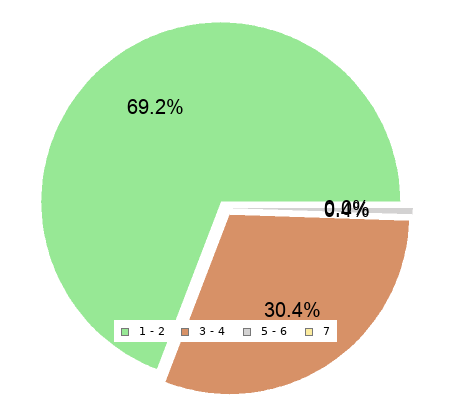
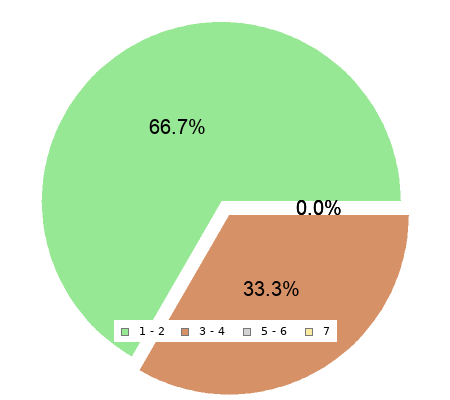
arreglo chart

diff --git a/src/templates/ReportPdfChart.php b/src/templates/ReportPdfChart.php
@@ -1,7 +1,9 @@
 <?php 
+	use Fpdf\Fpdf;
 	
 	$file_name = (isset($file_name)) ? $file_name : NULL;
 	$price = (isset($price)) ? $price : 0;
+	$pricemetro = (isset($pricemetro)) ? $pricemetro : 0;
 	$amueblado = (isset($amueblado)) ? $amueblado : 0;
 	$a_c = (isset($a_c)) ? $a_c : 0;
 	$elevator = (isset($elevator)) ? $elevator : 0;
@@ -12,12 +14,15 @@
 
 	//calcula el promedio del precio de la zona
 	if ($rows <= 0)
+	{
 	    $prom = 0;
+		$promMetro = 0;
+	}
 	else
+	{
 	    $prom = $price / $rows;
-
-	use Fpdf\Fpdf;
-	
+		$promMetro = $pricemetro / $rows;
+	}	
 
 	$pdf = new FPDF('P','mm','Legal');
 
@@ -45,7 +50,7 @@
 		$pdf->Text(177,346,'+34 910 57 30 27');		
 	}
 
-	function apartamento ($pdf, $apart, $des)
+	function apartamento ($pdf, $apart, $prom)
 	{
 		$beneficios = array(
 			'aireAcondicionado' => 'A/C',
@@ -70,9 +75,14 @@
 		$pdf->Text(76,$y+30,utf8_decode($apart['ciudad']));
 
 		
-		$pdf->Text(13,116.5,'Precio.');
-		$pdf -> Image(__DIR__ .'/../image/price2.png', 38, 109, 35, 12);
-		$pdf->Text(43,116.5,$apart['precio']." ". EURO);
+		$pdf->Text(16,116.5,'Precio.');
+		$pdf -> Image(__DIR__ .'/../image/price2.png', 38, 109, 40, 12);
+		$pdf->Text(41,116.5,round($prom['prom'],2)." ". EURO." /mes");
+
+		$pdf->Text(117,116.5,utf8_decode('Precio m².'));
+		$pdf -> Image(__DIR__ .'/../image/price2.png', 143, 109, 40, 12);
+		$pdf->Text(146,116.5,round($prom['promM'],2)." ". EURO." /mes");
+
 
 		// Detalles
 		$pdf -> Line(10,130,10,154);
@@ -119,29 +129,6 @@
 
 
 		$pdf -> SetFont('Arial', 'B', 14);
-		switch ($des) {
-			case '7'://primer apartamento
-					$pdf->Text(60,34,utf8_decode("Apartamento más cercano a la ubicación"));
-				break;
-			case '8': // economicio
-					$desc = substr($apart['descripcion'], 0, 1200);
-					$pdf->Text(74,34,utf8_decode("Apartamento más económico"));
-					$pdf->SetFontSize(16);
-					$pdf->Text(11,200,utf8_decode("Descripción: "));
-					$pdf -> SetFont('Arial', '', 11);
-					$pdf -> SetY(205);
-					$pdf->MultiCell(0,10,utf8_decode($desc)."...", 0, 'J',false);
-				break;
-			case '9': //costoso
-					$desc = substr($apart['descripcion'], 0, 1200);
-					$pdf->Text(74,34,utf8_decode("Apartamento más costoso"));			
-					$pdf->SetFontSize(16);
-					$pdf->Text(11,200,utf8_decode("Descripción: "));
-					$pdf -> SetFont('Arial', '', 11);
-					$pdf -> SetY(205);
-					$pdf->MultiCell(0,10,utf8_decode($desc)."...", 0, 'J',false);
-				break;
-		}
 	}
 
 	//Portada
@@ -182,7 +169,7 @@
 
 	
 
-	apartamento($pdf, $apart, 7);
+	apartamento($pdf, $apart,[ 'prom' => $prom, 'promM' => $promMetro]);
 
 	//Reporte Global-1
 	$pdf->SetFontSize(16);
@@ -212,8 +199,8 @@
 
 	//apartamentos
 	$pdf -> Line(53,210,53,250);	
-	$pdf -> Image(__DIR__ .'/../image/rounded_blue.png', 60, 218, 30, 35);
-	$pdf->Text(71,238,$rows);
+	$pdf -> Image(__DIR__ .'/../image/rounded_blue.png', 62, 218, 30, 35);
+	$pdf->Text(73,238,$rows);
 
 	//edad media
 	$pdf -> Line(100,210,100,250);
@@ -251,8 +238,8 @@
 
 	//ascensor
 	$pdf -> Line(53,270,53,310);	
-	$pdf -> Image(__DIR__ .'/../image/rounded_blue.png', 60, 278, 30, 35);
-	$pdf->Text(71,297,$elevator);
+	$pdf -> Image(__DIR__ .'/../image/rounded_blue.png', 62, 278, 30, 35);
+	$pdf->Text(73,297,$elevator);
 
 	// balcón
 	$pdf -> Line(100,270,100,310);
@@ -307,22 +294,5 @@
 	}else{
 	    //en caso de haber añadido algun filtro
 	}
-
-	//Pagina apartamento economico
-	$pdf->AddPage();
-
-	headerPdf($pdf);
-
-	apartamento($pdf, $apartmin, 8);
-
-	footer($pdf);
-
-	//pagina aartamento costoso
-	$pdf->AddPage();
-	headerPdf($pdf);
-
-	apartamento($pdf, $apartmax, 9);
-
-	footer($pdf);
 
 	$pdf ->Output('F',$file_name);//

diff --git a/src/Tools.php b/src/Tools.php
@@ -59,63 +59,6 @@ class Tools extends Settings
         }
     }
 
-    public function SQLMinMax($lat, $lng, $measure, $minmax, $conditions = array())
-    {
-        try {
-            $where = [];
-            $city = 0;
-            foreach ($conditions as $key => $value) {
-
-                if (gettype($value['value'])==='integer'){
-                    $where[] = " AND ${key}{$value['symbol']}{$value['value']} ";
-                }
-                elseif (gettype($value['value'])==='string') {
-                    $where[] = " AND ${key} LIKE '%{$value['value']}%' ";
-                    $city=1;
-                } 
-                else{
-                    $where[] = " AND ${key} BETWEEN {$value['value'][0]} AND {$value['value'][1]}";
-                }
-            }
-            $where_sql = implode(' ', $where);
-            $table = parent::$DB_TABLE;
-            if ($city!=1) {
-                if ($where_sql) {
-                  $whe = substr($where_sql, 4);  
-                  $sql = "SELECT *, 3956 * 2 * ASIN(SQRT(
-                    POWER(SIN((" . $lat . " - abs(dest.latitud)) * pi()/180 / 2),
-                    2) + COS(" . $lat . " * pi()/180 ) * COS(abs(dest.latitud) *
-                    pi()/180) * POWER(SIN((" . $lng . " - dest.longitud) *
-                    pi()/180 / 2), 2) )) as distance
-                    FROM {$table} dest WHERE precio = (SELECT {$minmax}(precio) FROM {$table} WHERE {$whe} ) {$where_sql} 
-                    having distance < " . $measure . " ORDER BY distance ASC";
-                }
-                else {
-                        $sql = "SELECT *, 3956 * 2 * ASIN(SQRT(
-                    POWER(SIN((" . $lat . " - abs(dest.latitud)) * pi()/180 / 2),
-                    2) + COS(" . $lat . " * pi()/180 ) * COS(abs(dest.latitud) *
-                    pi()/180) * POWER(SIN((" . $lng . " - dest.longitud) *
-                    pi()/180 / 2), 2) )) as distance
-                    FROM {$table} dest WHERE precio = (SELECT {$minmax}(precio) FROM {$table} ) having distance < " . $measure . " ORDER BY distance ASC";
-                }              
-            }
-            else {
-                if ($where_sql) {
-                    $whe = substr($where_sql, 4);
-                    $sql ="SELECT * FROM {$table} WHERE precio = (SELECT {$minmax}(precio) FROM {$table} WHERE {$whe} ) {$where_sql} ;";
-                }
-                else {
-                    $sql ="SELECT * FROM {$table} WHERE precio = (SELECT {$minmax}(precio) FROM {$table} );";
-                }
-                
-            }
-            return $sql;
-
-        } catch (Exception $e) {
-            return $e->getMessage();
-        }
-    }
-
     private function TypeDatum($datum = null)
     {
         $tmp = '';

diff --git a/src/Calculator.php b/src/Calculator.php
@@ -121,6 +121,7 @@ class Calculator extends Settings
         $measure = floatval($km * parent::$KM_DEFAULT_INIT);
         $file_name = __DIR__ . '/../output';
         $price = 0;
+        $pricemetro = 0;
         $amueblado =0;
         $a_c =0;
         $elevator =0;
@@ -131,29 +132,14 @@ class Calculator extends Settings
         $file_name .= "/" . parent::$REPORT_CHART_FILENAME . time() . ".pdf";
         if (!count($filters)) {                    
             $sql = $this->TOOLS->SQLRange($lat, $lng, $measure);
-            $sqlmax = $this->TOOLS->SQLMinMAx($lat, $lng, $measure, 'MAX');
-            $sqlmin = $this->TOOLS->SQLMinMAx($lat, $lng, $measure, 'MIN');
         } else {
             $sql = $this->TOOLS->SQLRange($lat, $lng, $measure, $filters);
-            $sqlmax = $this->TOOLS->SQLMinMAx($lat, $lng, $measure, 'MAX', $filters);
-            $sqlmin = $this->TOOLS->SQLMinMAx($lat, $lng, $measure, 'MIN', $filters);
         }
 
         //consulta datos primer apartamento
         $ok = $this->connection->query($sql);
         $apart = $ok->fetch_assoc();
         $apart = str_replace("_", " ", $apart);
-
-        //consulta apartamento costoso
-        $ok = $this->connection->query($sqlmax);
-        $apartmax = $ok->fetch_assoc();
-        $apartmax = str_replace("_", " ", $apartmax);
-
-        //consulta apartamento economico 
-        $ok = $this->connection->query($sqlmin);
-        $apartmin = $ok->fetch_assoc();
-        $apartmin = str_replace("_", " ", $apartmin);
-
 
         //consulta de todos los apartamentos
         $ok = $this->connection->query($sql);
@@ -163,6 +149,7 @@ class Calculator extends Settings
         } else {
             while (($datum = $ok->fetch_assoc())) {
                 $price += $datum['precio'];
+                $pricemetro += $datum['precioMetro'];
                 $amueblado += ($datum['amueblado']) ? 1 : 0;
                 $a_c += ($datum['aireAcondicionado']) ? 1 : 0;
                 $elevator += ($datum['ascensor']) ? 1 : 0;

diff --git a/src/templates/Chart.php b/src/templates/Chart.php
@@ -35,7 +35,7 @@
 		// Setup slice labels and move them into the plot
 		$p1->value->SetFont(FF_ARIAL);
 		$p1->value->SetColor('#000');
-		$p1->SetLabelPos(0.65);
+		$p1->SetLabelPos(0.5);
 		$p1->SetLegends($name);
 		$p1->SetSliceColors(array("#F27F7F","#85EEF7","#D3D2D2","#FBEB9E"));
 		// Explode all slices
@@ -82,7 +82,7 @@
 		// Setup slice labels and move them into the plot
 		$p1->value->SetFont(FF_ARIAL);
 		$p1->value->SetColor('#000');
-		$p1->SetLabelPos(0.65);
+		$p1->SetLabelPos(0.5);
 		$p1->SetLegends($name);
 		$p1->SetSliceColors(array("#97E895","#D79167","#D3D2D2","#FBEB9E"));
 		// Explode all slices
@@ -114,11 +114,25 @@
             $data[] = $connection->affected_rows;
 		}
 
+		$i=0;
+		$y=0;
+		foreach ($data as $value) {
+			if($value>$i)
+			{
+				$i=$value;
+				$y = $value+5;
+			}
+		}
+
 		$graph = new Graph\Graph(800, 600, 'auto');
-        $graph->setScale("textint");
+        $graph->setScale("textlin",0,$y);
+
         $graph->xaxis->SetFont(FF_ARIAL, FS_NORMAL, 12);
         $graph->yaxis->SetFont(FF_ARIAL, FS_NORMAL, 12);
         $graph->xaxis->setTickLabels($name);
+
+        //$graph->yaxis->SetTickPositions([0,10,20,30,40,50,60,70,80,90,100,150,200,300,400,500]);
+        $graph->yaxis->HideTicks(false,false);
         $p1 = new  Plot\BarPlot($data);
 
         $p1->setFillGradient('#C7FAC4', '#67FC95', GRAD_HOR);
